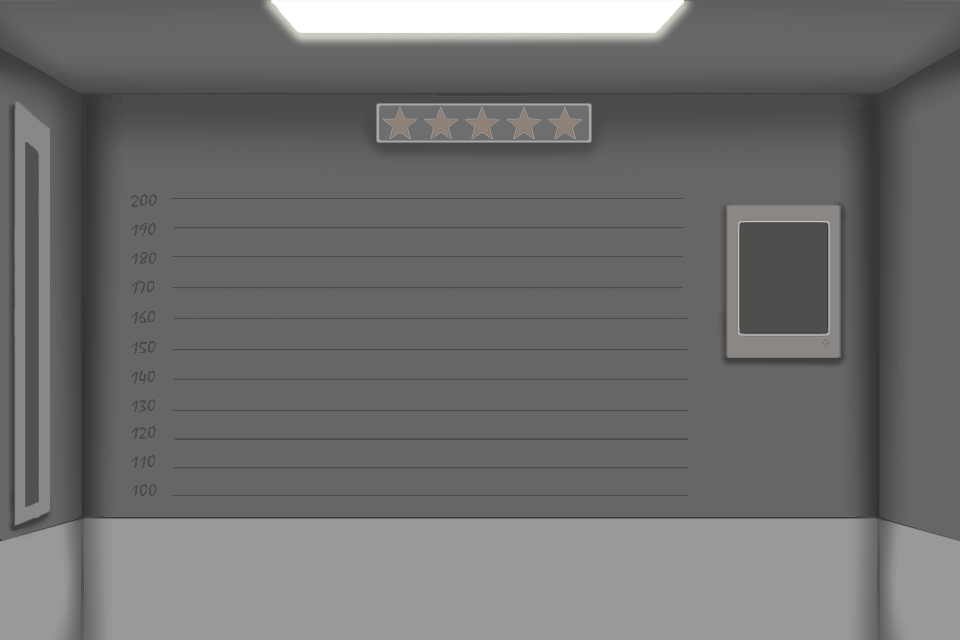
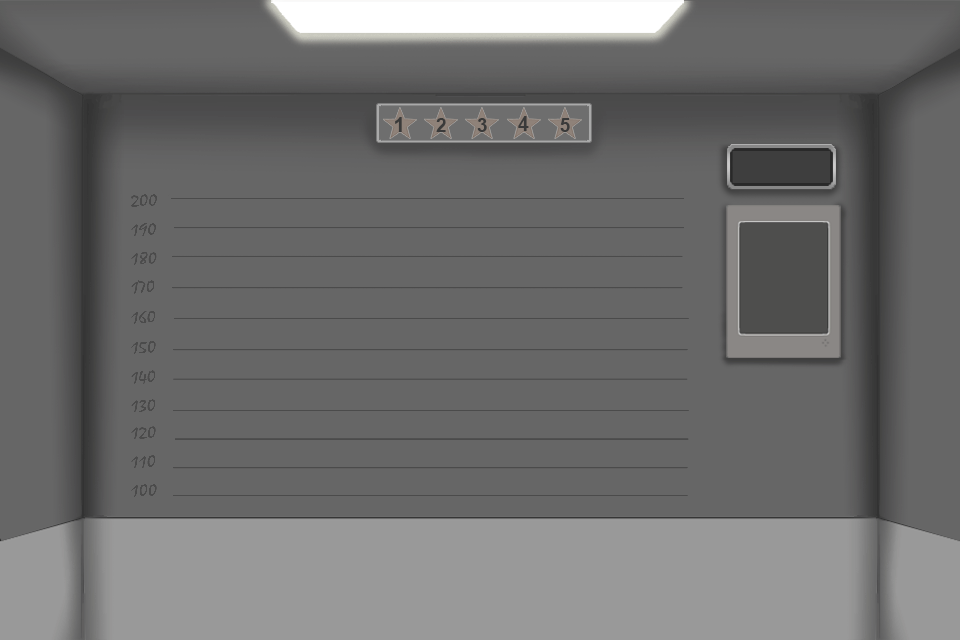
Timer font

diff --git a/Suspects/Scripts/Tutorial.js b/Suspects/Scripts/Tutorial.js
@@ -50,10 +50,10 @@ Suspects.Tutorial.prototype =
         this.wrong.scale.setTo(0.5, 0.5);
         this.wrong.visible = false;
         
-        this.tutorial4 = this.add.sprite(this.world.width*0.5, this.world.height*0.5, 'Toturial4');
-        this.tutorial4.anchor.set(0.5,0.5);
-        this.tutorial4.visible = false;
-        this.tutorial4.events.onInputDown.add(this.tutor4Click, this);
+//        this.tutorial4 = this.add.sprite(this.world.width*0.5, this.world.height*0.5, 'Toturial4');
+//        this.tutorial4.anchor.set(0.5,0.5);
+//        this.tutorial4.visible = false;
+//        this.tutorial4.events.onInputDown.add(this.tutor4Click, this);
         
         this.tutorial3 = this.add.sprite(this.world.width*0.5, this.world.height*0.5, 'Toturial3');
         this.tutorial3.anchor.set(0.5,0.5);
@@ -117,18 +117,20 @@ Suspects.Tutorial.prototype =
     
     tutor3Click: function()
     {
-        this.tutorial3.destroy();
-        this.tutorial4.inputEnabled = true;
-        this.reference.visible = true;
-        this.tutorial4.visible = true;
-        this.tutorial4.inputEnabled = true;
-    },
-    
-    tutor4Click: function()
-    {
-        this.tutorial4.inputEnabled = false;
+        this.tutorial3.inputEnabled = false;
+//        this.tutorial3.destroy();
+//        this.tutorial4.inputEnabled = true;
+//        this.reference.visible = true;
+//        this.tutorial4.visible = true;
+//        this.tutorial4.inputEnabled = true;
         this.buttonManager.createButton(this.world.width*0.5, this.world.height*0.9, 'StartGame', this.buttonManager.StartGame);
     },
+    
+//    tutor4Click: function()
+//    {
+//        this.tutorial4.inputEnabled = false;
+//        this.buttonManager.createButton(this.world.width*0.5, this.world.height*0.9, 'StartGame', this.buttonManager.StartGame);
+//    },
 
     suspectCheck: function()
     { 

diff --git a/Suspects/Scripts/Preloader.js b/Suspects/Scripts/Preloader.js
@@ -34,7 +34,6 @@ Suspects.Preloader.prototype =
         this.load.image('Toturial1', 'Assets/images/tutorial1.png');
         this.load.image('Toturial2', 'Assets/images/tutorial2.png');
         this.load.image('Toturial3', 'Assets/images/tutorial3.png');
-        this.load.image('Toturial4', 'Assets/images/tutorial4.png');
         this.load.image('EndScene', 'Assets/images/endScene.png');
         
         //Gray
@@ -72,15 +71,14 @@ Suspects.Preloader.prototype =
         this.load.spritesheet('Lv5Suspect_3', 'Assets/images/suspects/lvl5Suspect_3.png', 521, 1003);
         this.load.spritesheet('Lv5Suspect_4', 'Assets/images/suspects/lvl5Suspect_4.png', 521, 964);
         
-        //Images
         this.load.image('Correct', 'Assets/images/correct.png');
+        
+        //Images
+        this.load.image('Glowing', 'Assets/images/glowing.png');
         this.load.image('Wrong', 'Assets/images/wrong.png');
         this.load.image('JailBar', 'Assets/images/jail.png');
         this.load.image('CaseClosed', 'Assets/images/caseClosed.png');
         this.load.image('CaseFailed', 'Assets/images/caseFailed.png');
-        
-        //Time Bar
-        this.load.image('Timer', 'Assets/images/timeBar.png');
         
         //UI
         this.load.image('StarEmpty', 'Assets/images/starEmpty.png');

diff --git a/Suspects/Scripts/Game.js b/Suspects/Scripts/Game.js
@@ -26,7 +26,6 @@ Suspects.Game = function(game)
     
     this.wrong = false; //clicked wrong suspect
     this.caseOutSound = false;
-//    this.timeText = null;
 };
 
 Suspects.Game.prototype = 
@@ -41,8 +40,7 @@ Suspects.Game.prototype =
         this.gameBackground.anchor.set(0.5,0.5);
         
         this.timeManager = new TimeManager(this);
-        this.timeManager.createTimerDown(this.world.width*0.8, this.world.height*0.3, 60);
-//        this.timeText = this.add.text(this.world.width*0.8, this.world.height*0.3, '00');
+        this.timeManager.createTimerDown(this.world.width*0.775, this.world.height*0.23, 60);
         
         this.suspectGroup = this.add.group();
         
@@ -247,5 +245,6 @@ Suspects.Game.prototype =
         this.suspectGroup.destroy();
         this.gameBackground.destroy();
         this.reference.destroy();
+        this.timeManager.timeText.destroy();
     }
 }

diff --git a/Suspects/Scripts/Game3.js b/Suspects/Scripts/Game3.js
@@ -38,7 +38,7 @@ Suspects.Game3.prototype =
         this.gameBackground.anchor.set(0.5,0.5);
         
         this.timeManager = new TimeManager(this);
-        this.timeManager.createTimeBar(25, 507, 'Timer', 50);
+        this.timeManager.createTimerDown(this.world.width*0.775, this.world.height*0.23, 50);
         
         this.suspectGroup = this.add.group();
         
@@ -116,6 +116,8 @@ Suspects.Game3.prototype =
             this.caseFailedOut();
             this.caseOutSound = true;
         }
+        
+        Suspects.FadeScreen.update(this.gameScene);
     },
     
     pauseClick: function()
@@ -263,5 +265,6 @@ Suspects.Game3.prototype =
         this.suspectGroup.destroy();
         this.gameBackground.destroy();
         this.reference.destroy();
+        this.timeManager.timeText.destroy();
     }
 }

diff --git a/Suspects/Scripts/TimeManager.js b/Suspects/Scripts/TimeManager.js
@@ -51,7 +51,7 @@ TimeManager.prototype.timeBarCountDown = function()
 /////////////      Count Down Timer      /////////////
 TimeManager.prototype.createTimerDown = function(posx, posy,time)
 {
-    this.timeText = this.game.add.text(posx, posy, '00');
+    this.timeText = this.game.add.text(posx, posy, '',  {font: "bold 35px Digital", fill: "#ff0000"});
     this.timeDown = time;
     this.countDownTimer = this.game.time.create(false);
     this.countDownTimer.loop(Phaser.Timer.SECOND, this.timeCountDown, this);
@@ -63,7 +63,7 @@ TimeManager.prototype.timeCountDown = function()
     {
         this.timeDown --;
     }
-    this.timeText.setText(this.timeDown);
+    this.timeText.setText('00:' + this.timeDown);
     if(this.timeDown <= 0)
     {
         this.gameOver = true;

diff --git a/Suspects/index.html b/Suspects/index.html
@@ -6,6 +6,14 @@
 	<!--<meta name = "viewport" content = "initial-scale=1 maximum-scale=1 user-scalable=0 minimal-ui" />
 	<meta name = "format-detection" content = "telephone=no">-->
 	<link rel = "stylesheet" href = "css/stylesheet.css" type = "text/css" charset = "utf-8" />
+    <style type="text/css">
+        @font-face {
+            font-family: Digital;
+          src: local("Assets/font/digital-7.ttf"),
+               url(Assets/font/digital-7.ttf);
+          font-weight: normal;
+        }
+    </style>
 	<script src = "Lib/phaser.js"></script>
 	<script src = "Scripts/Boot.js"></script>
 	<script src = "Scripts/Preloader.js"></script>

diff --git a/Suspects/Scripts/Game2.js b/Suspects/Scripts/Game2.js
@@ -37,7 +37,7 @@ Suspects.Game2.prototype =
         this.gameBackground.anchor.set(0.5,0.5);
         
         this.timeManager = new TimeManager(this);
-        this.timeManager.createTimeBar(25, 507, 'Timer', 50);
+        this.timeManager.createTimerDown(this.world.width*0.775, this.world.height*0.23, 60);
         
         this.suspectGroup = this.add.group();
         
@@ -243,5 +243,6 @@ Suspects.Game2.prototype =
         this.suspectGroup.destroy();
         this.gameBackground.destroy();
         this.reference.destroy();
+        this.timeManager.timeText.destroy();
     }
 }

diff --git a/Suspects/Scripts/Game4.js b/Suspects/Scripts/Game4.js
@@ -39,7 +39,7 @@ Suspects.Game4.prototype =
         this.gameBackground.anchor.set(0.5,0.5);
         
         this.timeManager = new TimeManager(this);
-        this.timeManager.createTimeBar(25, 507, 'Timer', 40);
+        this.timeManager.createTimerDown(this.world.width*0.775, this.world.height*0.23, 50);
         
         this.suspectGroup = this.add.group();
         
@@ -260,5 +260,6 @@ Suspects.Game4.prototype =
         this.suspectGroup.destroy();
         this.gameBackground.destroy();
         this.reference.destroy();
+        this.timeManager.timeText.destroy();
     }
 }

diff --git a/Suspects/Scripts/Game5.js b/Suspects/Scripts/Game5.js
@@ -40,7 +40,7 @@ Suspects.Game5.prototype =
         this.gameBackground.anchor.set(0.5,0.5);
         
         this.timeManager = new TimeManager(this);
-        this.timeManager.createTimeBar(25, 507, 'Timer', 40);
+        this.timeManager.createTimerDown(this.world.width*0.775, this.world.height*0.23, 40);
         
         this.suspectGroup = this.add.group();
         
@@ -271,5 +271,6 @@ Suspects.Game5.prototype =
         this.suspectGroup.destroy();
         this.gameBackground.destroy();
         this.reference.destroy();
+        this.timeManager.timeText.destroy();
     }
 }
